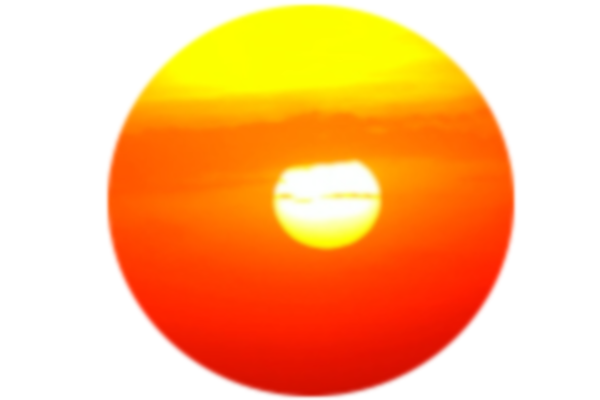
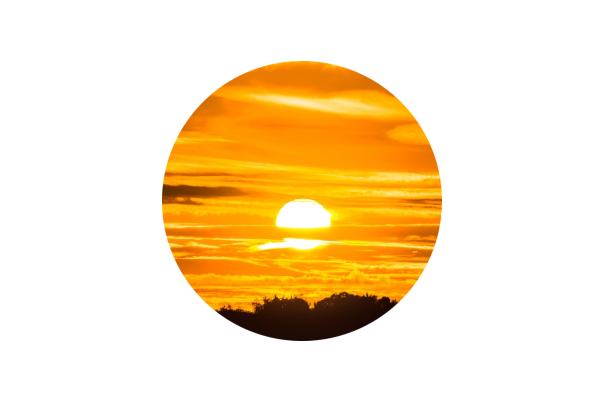
Inserindo JavaScript

diff --git a/script.js b/script.js
@@ -1,0 +1,20 @@
+function verificar () {
+    var p = document.querySelector('#msg')
+    var img = document.querySelector('#imagem')
+
+    var hora = new Date().getHours()
+    var min = new Date().getMinutes()
+
+    p.innerHTML = `Agora são ${hora}h:${min}min`
+
+    if (hora >= 0 && hora <= 12) {
+        img.src = 'imgs/manha.png'
+        document.body.style.backgroundColor = 'rgb(255, 133, 0)'
+    } else if (hora >= 13 && hora <= 18) {
+        img.src = 'imgs/tarde.png'
+        document.body.style.backgroundColor = 'rgb(141, 48, 23)'
+    } else {
+        img.src = 'imgs/noite.png'
+        document.body.style.backgroundColor = 'rgb(37, 88, 144)'
+    }
+}

diff --git a/index.html b/index.html
@@ -8,14 +8,14 @@
 
     <link rel="stylesheet" href="style.css">
 </head>
-<body>
+<body onload="verificar()">
     <header>
         <h1>Hora do Dia</h1>
     </header>
 
     <section>
-        <p>Uma imagem</p>
-        <img src="imgs/manha.png" alt="Foto de manhã">
+        <p id="msg"></p>
+        <img id="imagem">
     </section>
 
     <footer>

diff --git a/style.css b/style.css
@@ -23,8 +23,8 @@ section {
 }
 
 img {
-    margin-top: -60px;
-    margin-bottom: -60px;
+    margin-top: -40px;
+    margin-bottom: -20px;
 }
 
 footer {
